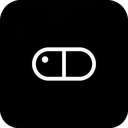
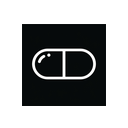
AI 重绘圆角胶囊图标并动态化版本号

diff --git a/popup/popup.html b/popup/popup.html
@@ -12,7 +12,7 @@
       <img src="../store-assets/icon48.png" alt="" class="mc-popup-logo">
       <div>
         <h1 class="mc-popup-title">MindCapsule</h1>
-        <p class="mc-popup-version" id="versionLabel">MindCapsule</p>
+        <p class="mc-popup-version" id="versionLabel"></p>
       </div>
     </header>
 

diff --git a/popup/popup.js b/popup/popup.js
@@ -13,7 +13,7 @@
     const el = $('#versionLabel');
     if (!el) return;
     const version = chrome.runtime?.getManifest()?.version || '0.0.0';
-    el.textContent = `MindCapsule v${version}`;
+    el.textContent = `v${version}`;
   }
 
   applyStaticI18n();

diff --git a/scripts/icon_ai_matte.py b/scripts/icon_ai_matte.py
@@ -1,0 +1,72 @@
+import os
+from PIL import Image, ImageOps
+from collections import deque
+
+SRC = os.path.join(os.path.dirname(__file__), "..", "generated-images",
+                   "A_minimalist_mobile_app_icon_o_2026-08-13T07-54-11.png")
+OUT_DIR = os.path.join(os.path.dirname(__file__), "..", "store-assets")
+SIZES = [16, 48, 128]
+
+img = Image.open(SRC).convert("RGBA")
+w, h = img.size
+# square crop to largest centered square
+side = min(w, h)
+left = (w - side) // 2
+top = (h - side) // 2
+img = img.crop((left, top, left + side, top + side))
+
+px = list(img.getdata())
+
+# flood-fill only edge-connected background (white) -> transparent
+corners = [(0, 0), (w - 1, 0), (0, h - 1), (w - 1, h - 1)]
+bg_r = sum(px[y * w + x][0] for x, y in corners) // 4
+bg_g = sum(px[y * w + x][1] for x, y in corners) // 4
+bg_b = sum(px[y * w + x][2] for x, y in corners) // 4
+tol = 40
+
+def is_bg(i):
+    r, g, b, _ = px[i]
+    return abs(r - bg_r) <= tol and abs(g - bg_g) <= tol and abs(b - bg_b) <= tol
+
+mask = [False] * (w * h)
+q = deque()
+for y in range(h):
+    for x in (0, w - 1):
+        idx = y * w + x
+        if not mask[idx] and is_bg(idx):
+            mask[idx] = True; q.append(idx)
+for x in range(1, w - 1):
+    for y in (0, h - 1):
+        idx = y * w + x
+        if not mask[idx] and is_bg(idx):
+            mask[idx] = True; q.append(idx)
+
+while q:
+    idx = q.popleft()
+    x, y = idx % w, idx // w
+    for dx in (-1, 0, 1):
+        for dy in (-1, 0, 1):
+            if dx == 0 and dy == 0:
+                continue
+            nx, ny = x + dx, y + dy
+            if 0 <= nx < w and 0 <= ny < h:
+                nidx = ny * w + nx
+                if not mask[nidx] and is_bg(nidx):
+                    mask[nidx] = True
+                    q.append(nidx)
+
+new = [(r, g, b, 0) if mask[i] else (r, g, b, a) for i, (r, g, b, a) in enumerate(px)]
+img.putdata(new)
+
+# verify corner transparency
+print("corner(5,5)=", img.getpixel((5, 5)))
+
+for s in SIZES:
+    out = img.resize((s, s), Image.LANCZOS)
+    # binary threshold alpha to kill semi-transparent edge bleed on dark toolbars
+    od = list(out.getdata())
+    od = [(r, g, b, 0) if a < 128 else (r, g, b, 255) for r, g, b, a in od]
+    out.putdata(od)
+    path = os.path.join(OUT_DIR, f"icon{s}.png")
+    out.save(path, "PNG")
+    print(f"saved {path} mode={out.mode} corner={out.getpixel((2, 2))}")
